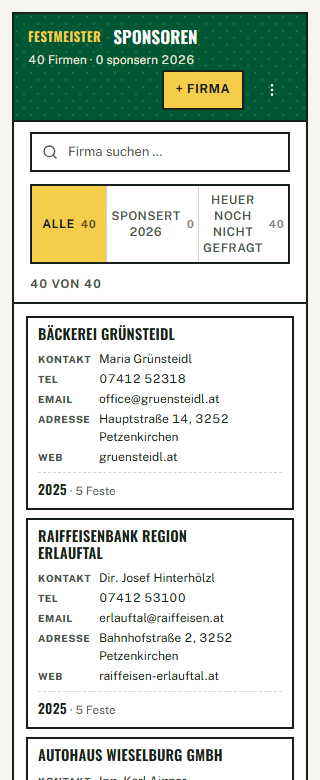
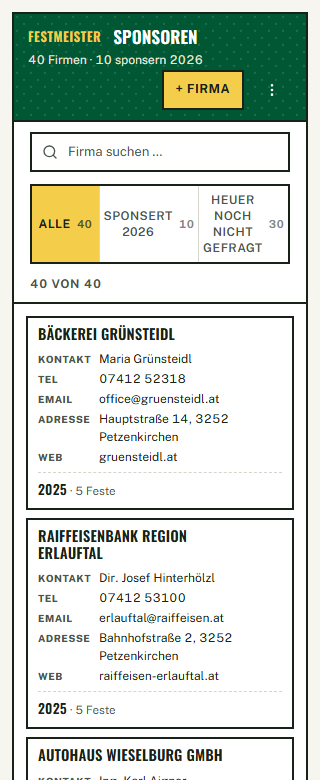
fix: Trefferfeld, Benennung und Belege der Handy-Karte (#160)
Aus dem /code-review (zwei Achsen gegen main und gegen Issue #160):

- **Trefferfeld ≥ 40px (Standards, hart).** Der Firmenname ist bei 14.5px/1.15
  knapp 17px hoch und war am Handy der einzige Weg ins Firmendaten-Formular —
  DESIGN-VISION §6 verlangt 40px. Jetzt öffnet die ganze Karte, genau wie die
  Tabellenzeile am Desktop; der Name bleibt als Knopf der Tastaturweg und hält
  den Klick der Karte an. Kleinstes Ziel gemessen: 176px. Der Weg über die
  Karte kostet keine Höhe — ein 40px hoher Titel hätte 23px je Karte gekostet.
- **Toter Platzhalter (Spec).** Das leere `aria-hidden`-Div hat eine
  Trefferfläche vorgetäuscht, die es nicht gibt. Es ist weg: das ⋮ aus #159
  hängt sich wie im Prototyp absolut in die Ecke und braucht keine eigene
  Höhe — nur den 42px-Rand am Namen, der bleibt.
- **Benennung.** `SponsorHistoryMark` → `SponsorHistoryLine`. „Marke" ist in
  ADR 0003 §4 für `NameChip`/`ValueTag` vergeben; die Komponente ist keiner
  der Toolkit-Bausteine. „Historie-Zeile" ist das Wort des Tickets.
- **Belege.** `karten-375.png` ergänzt (der Prototyp-Rahmen ist 375px breit,
  der Vergleich war vorher 390 gegen 375); `karten-390-oben.png` heißt jetzt
  einheitlich `karten-390.png`.
- **Zitat korrigiert.** #155 (Sponsoring am Handy) ist offen, kein gebautes
  Muster — die Kommentare nennen es jetzt als Geschwister-Slice und berufen
  sich fürs Muster auf #116.

Gemessen an 40 Firmen bei 320/375/390px: kein horizontaler Overflow, weder am
[…]

diff --git a/src/components/sponsors/SponsorCard.tsx b/src/components/sponsors/SponsorCard.tsx
@@ -1,7 +1,7 @@
 import { MissingValue } from '@/components/toolkit/PaperTable';
 import type { SponsorHistory } from '@/lib/sponsorHistory';
 import type { Sponsor } from '@/lib/sponsorService';
-import SponsorHistoryMark from './SponsorHistoryMark';
+import SponsorHistoryLine from './SponsorHistoryLine';
 
 export interface SponsorCardProps {
 	sponsor: Sponsor;
@@ -36,35 +36,43 @@ function Angabe({ label, value }: { label: string; value: string | null }) {
  * anzurufen oder eine Adresse zu lesen.
  *
  * Bewusste Abweichung von DESIGN-VISION §6 („Tabellen scrollen horizontal im
- * eigenen Rahmen"), mit derselben Begründung wie Material (#116) und
- * Sponsoring (#155): die sieben Spalten brauchen gemessene 895 px, bei 375 px
- * Gerätebreite scrollte die Tabelle +553 px quer — und Querscrollen in einer
- * Liste ist seit #66 ein No-Go.
+ * eigenen Rahmen"), mit derselben Begründung wie bei Material (#116, gebaut)
+ * und Sponsoring (#155, Geschwister-Slice): die sieben Spalten brauchen
+ * gemessene 895 px, bei 375 px Gerätebreite scrollte die Tabelle +553 px quer —
+ * und Querscrollen in einer Liste ist seit #66 ein No-Go.
  *
- * Der Preis ist gemessen und gewollt: 148,7 px je Karte, 6316 px Scrollweg auf
- * 40 Firmen gegen 2596 px beim schlanksten Zuschnitt. Nicht nachträglich
- * „optimieren" — der Zuschnitt ist die Entscheidung (Nutzer-Entscheid #101).
+ * Der Preis ist gemessen und gewollt: im Prototyp 148,7 px je Karte, 6316 px
+ * Scrollweg auf 40 Firmen gegen 2596 px beim schlanksten Zuschnitt. Nicht
+ * nachträglich „optimieren" — der Zuschnitt ist die Entscheidung
+ * (Nutzer-Entscheid #101). Gebaut sind es 176,6 px je Karte: die Grundschrift
+ * der App führt 12px-Text mit 18px Zeilenhöhe, der Prototyp mit der
+ * Browser-Vorgabe von 14px. Dieselben Felder, andere Zeilenhöhe.
  */
 export default function SponsorCard({ sponsor, history, onSelect }: SponsorCardProps) {
 	return (
-		<article className="relative border-2 border-tinte bg-white px-2.5 py-2">
-			{/* Der Firmenname trägt den 42px-Rand für das ⋮ — sonst liefe eine lange
-			Firma unter das Menü. */}
+		// Die ganze Karte öffnet die Firmendaten — DESIGN-VISION §6 will am Handy
+		// 40px, und der Firmenname allein ist knapp 17px hoch. Dieselbe Lösung wie
+		// die Tabellenzeile am Desktop, die deshalb auch klickbar ist.
+		<article
+			onClick={() => onSelect(sponsor)}
+			className="relative cursor-pointer border-2 border-tinte bg-white px-2.5 py-2 hover:bg-fusszeile">
+			{/* Der Firmenname hält den 42px-Rand für das ⋮ frei, das #159 wie im
+			Prototyp absolut in die Ecke hängt — sonst liefe eine lange Firma darunter. */}
 			<h3 className="pr-[42px] leading-[1.15] [overflow-wrap:anywhere]">
 				{/* Die Schrift steht am Knopf, nicht nur an der Überschrift: Tailwinds
 				Preflight setzt `button { text-transform: none; font: inherit }` und
-				nähme die Versalien sonst zurück. */}
+				nähme die Versalien sonst zurück. Der Knopf ist der Tastaturweg zum
+				selben Griff, darum hält er den Klick der Karte an. */}
 				<button
 					type="button"
-					onClick={() => onSelect(sponsor)}
+					onClick={(e) => {
+						e.stopPropagation();
+						onSelect(sponsor);
+					}}
 					className="text-left font-display text-[14.5px] font-semibold uppercase leading-[1.15] tracking-[.015em] hover:underline">
 					{sponsor.company_name}
 				</button>
 			</h3>
-			{/* Der Platz des ⋮ oben rechts: 40px Trefferfläche (DESIGN-VISION §6,
-			WCAG 2.5.8). Das Menü selbst hängt #159 hier ein — wie in der
-			Tabellenzeile am Desktop, die dafür ihre siebte Spalte freihält. */}
-			<div className="absolute right-0 top-0 min-h-10 min-w-10" aria-hidden />
 
 			<dl className="mt-1.5 grid grid-cols-[auto_1fr] gap-x-2 gap-y-0.5 text-[12px]">
 				<Angabe label="Kontakt" value={sponsor.contact_person} />
@@ -77,7 +85,7 @@ export default function SponsorCard({ sponsor, history, onSelect }: SponsorCardP
 			{/* Die Historie ist keine Kontaktangabe — die gestrichelte Linie setzt
 			sie ab, wie die eigene Spalte „Zuletzt" es am Desktop tut. */}
 			<div className="mt-1.5 border-t-1.5 border-dashed border-linie pt-1.5 text-[12px]">
-				<SponsorHistoryMark history={history} />
+				<SponsorHistoryLine history={history} />
 			</div>
 		</article>
 	);

diff --git a/src/components/sponsors/SponsorCard.test.tsx b/src/components/sponsors/SponsorCard.test.tsx
@@ -112,10 +112,18 @@ describe('SponsorCard — der volle Stammsatz am Handy (#160)', () => {
 		expect(html).toMatch(/<button[^>]*>Bäckerei Grünsteidl<\/button>/);
 	});
 
-	it('hält oben rechts den 40px-Platz des ⋮ frei', () => {
+	it('macht die ganze Karte zum Trefferfeld, nicht nur den 17px hohen Namen', () => {
+		// DESIGN-VISION §6 will am Handy 40px; der Firmenname allein ist bei
+		// 14.5px/1.15 knapp 17px hoch. Also dieselbe Lösung wie die Tabellenzeile
+		// am Desktop: die ganze Karte öffnet, der Name bleibt der Tastaturweg.
 		const html = render();
-		expect(html).toContain('min-h-10');
-		expect(html).toContain('min-w-10');
+		expect(html).toMatch(/<article[^>]*cursor-pointer/);
+	});
+
+	it('hält oben rechts den Rand für das ⋮ frei', () => {
+		// Das Menü aus #159 hängt sich wie im Prototyp absolut in die Ecke — es
+		// braucht keine eigene Höhe, aber der Name darf nicht darunter laufen.
+		expect(render()).toMatch(/<h3[^>]*pr-\[42px\]/);
 	});
 
 	it('bricht langen Text um, statt ihn abzuschneiden oder quer zu scrollen', () => {

diff --git a/src/components/sponsors/SponsorsTable.tsx b/src/components/sponsors/SponsorsTable.tsx
@@ -5,7 +5,7 @@ import { sponsorHistoryOf, type SponsorHistoryMap } from '@/lib/sponsorHistory';
 import type { Sponsor } from '@/lib/sponsorService';
 import { MissingValue } from '@/components/toolkit/PaperTable';
 import MastPanel from './MastPanel';
-import SponsorHistoryMark from './SponsorHistoryMark';
+import SponsorHistoryLine from './SponsorHistoryLine';
 
 export interface SponsorsTableProps {
 	/** Bereits gefilterter Ausschnitt des Sponsorenbestands, alphabetisch. */
@@ -116,7 +116,7 @@ export default function SponsorsTable({ sponsors, history, onSelect }: SponsorsT
 										<CellValue>{sponsor.address}</CellValue>
 									</td>
 									<td className={cn(cell, 'whitespace-nowrap tabular-nums')}>
-										<SponsorHistoryMark history={sponsorHistoryOf(history, sponsor.id)} />
+										<SponsorHistoryLine history={sponsorHistoryOf(history, sponsor.id)} />
 									</td>
 									{/* Das ⋮ füllt #159. */}
 									<td className={cn(cell, 'w-10')} />

diff --git a/src/components/sponsors/SponsorHistoryLine.tsx b/src/components/sponsors/SponsorHistoryLine.tsx
@@ -9,9 +9,11 @@ import type { SponsorHistory } from '@/lib/sponsorHistory';
  * bleibt es bei der Anzahl statt einem erfundenen Jahr.
  *
  * Steht hier und nicht in der Tabelle, weil die Handy-Karte (#160) dieselbe
- * Auskunft trägt — eine Regel, eine Stelle (ADR 0003 §2).
+ * Auskunft trägt — eine Regel, eine Stelle (ADR 0003 §2). Kein Toolkit-Baustein
+ * und bewusst nicht „…Mark" genannt: „Marke" ist in ADR 0003 §4 für `NameChip`
+ * und `ValueTag` vergeben.
  */
-export default function SponsorHistoryMark({ history }: { history: SponsorHistory }) {
+export default function SponsorHistoryLine({ history }: { history: SponsorHistory }) {
 	if (history.festivalCount === 0) {
 		// Dasselbe Rezept wie die rote Lücke im Schichtplan (`OpenSlot`), nur
 		// enger gesetzt: in einer Frachtbrief-Zeile darf die Marke die Zeilenhöhe

diff --git a/src/components/sponsors/SponsorsCardList.tsx b/src/components/sponsors/SponsorsCardList.tsx
@@ -14,8 +14,7 @@ export interface SponsorsCardListProps {
 
 /**
  * Der Sponsorenbestand unter 900px (#160): **gestapelte Karten statt der
- * querscrollenden Tabelle** — dasselbe Muster wie Material (#116) und
- * Sponsoring (#155).
+ * querscrollenden Tabelle** — dasselbe Muster wie bei Material (#116).
  *
  * Der Scrollweg ist lang (gemessen 6316 px auf 40 Firmen) und das ist die
  * bezahlte Gegenleistung dafür, dass nichts geöffnet werden muss. Erträglich
